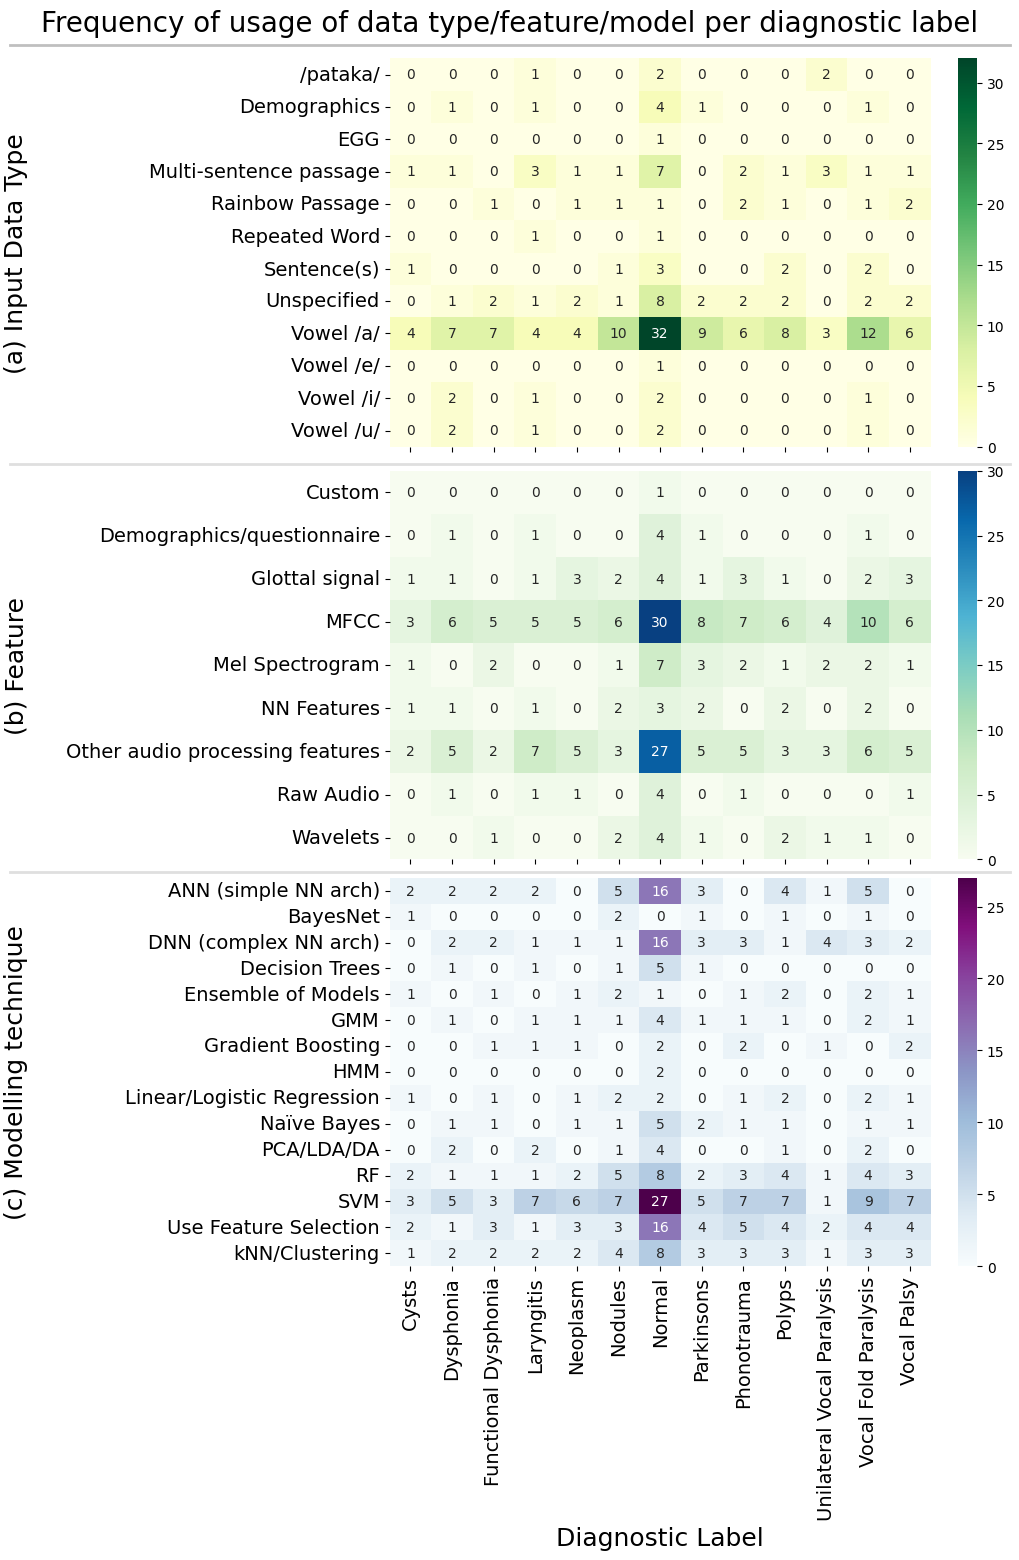
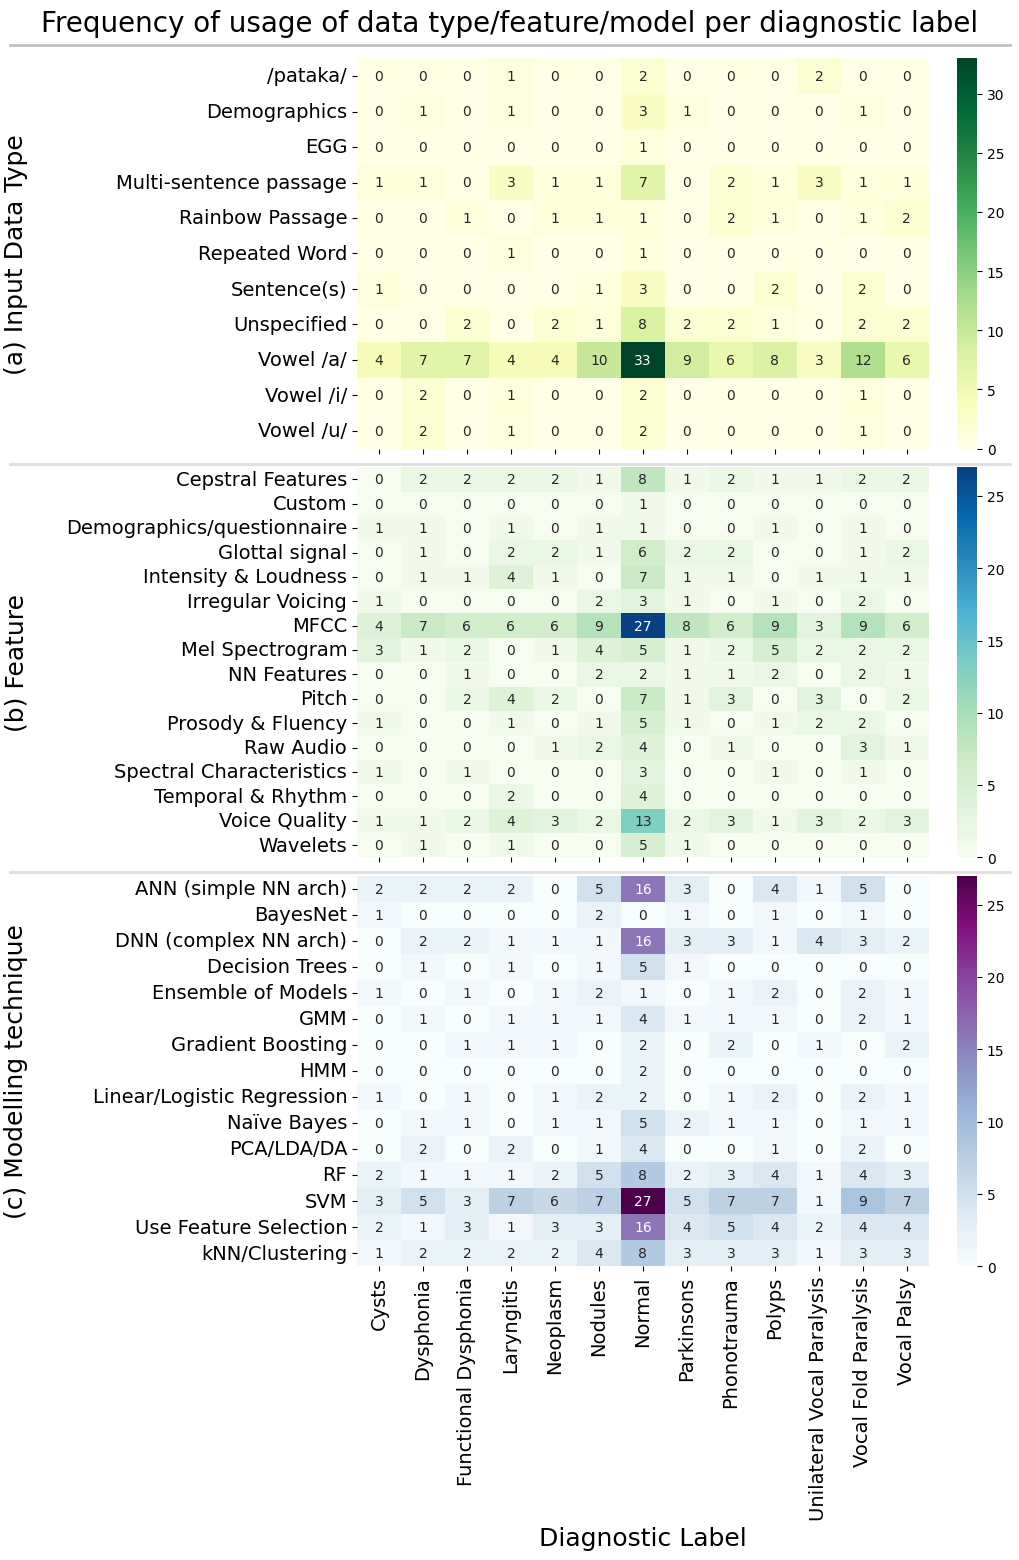
chore: update image code

diff --git a/src/extraction_instrument.py b/src/extraction_instrument.py
@@ -91,19 +91,40 @@ class ExtractionInstrument:
 
     @property
     def features(self):
-        return self.__workbook["Features"].iloc[: self.__num_articles][
-            [
-                "Raw Audio",
-                "NN Features",
-                "Mel Spectrogram",
-                "MFCC",
-                "Wavelets",
-                "Glottal signal",
-                "Other audio processing features",
-                "Demographics/questionnaire",
-                "Custom",
+        return (
+            self.__workbook["Features"]
+            .iloc[: self.__num_articles][
+                [
+                    "Raw Audio",
+                    "NN Features",
+                    "Mel Spectrogram",
+                    "MFCC",
+                    "Wavelets",
+                    "Glottal signal",
+                    # "Other audio processing features",
+                    "Pitch and Fundamental Frequency (F0)",
+                    "Frequency-Related Features (Spectral Characteristics)",
+                    "Voice Quality (Phonation, Noise & Regularity)",
+                    "Intensity & Loudness",
+                    "Temporal & Rhythm Features",
+                    "Cepstral Features",
+                    "Irregular Voicing ",
+                    "Prosody & Fluency",
+                    "Demographics/questionnaire",
+                    "Custom",
+                ]
             ]
-        ]
+            .rename(
+                columns={
+                    "Pitch and Fundamental Frequency (F0)": "Pitch",
+                    "Frequency-Related Features (Spectral Characteristics)": "Spectral Characteristics",
+                    "Voice Quality (Phonation, Noise & Regularity)": "Voice Quality",
+                    "Temporal & Rhythm Features": "Temporal & Rhythm",
+                    "Irregular Voicing ": "Irregular Voicing",
+                    "Prosody & Fluency": "Prosody & Fluency",
+                }
+            )
+        )
 
     @property
     def input_data(self):
